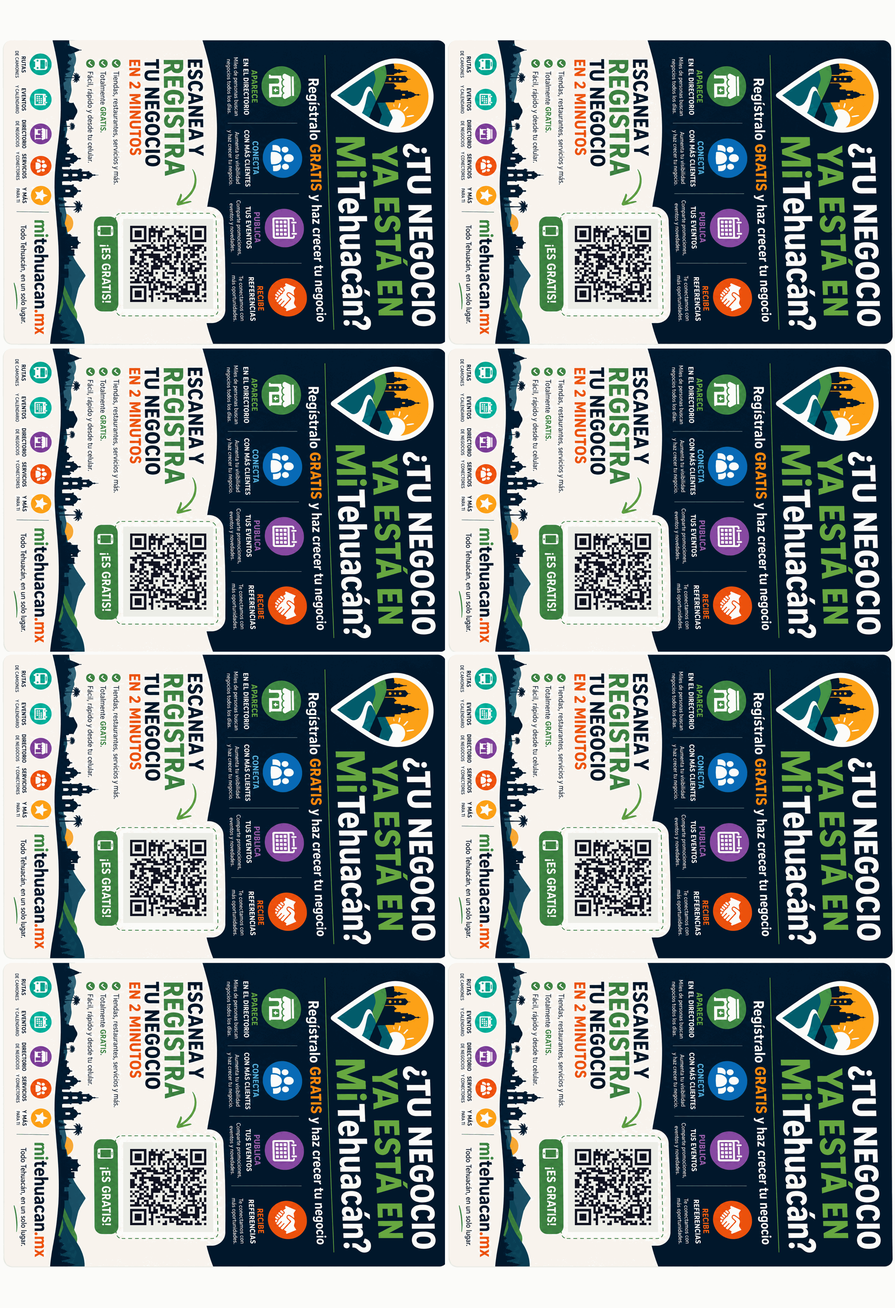
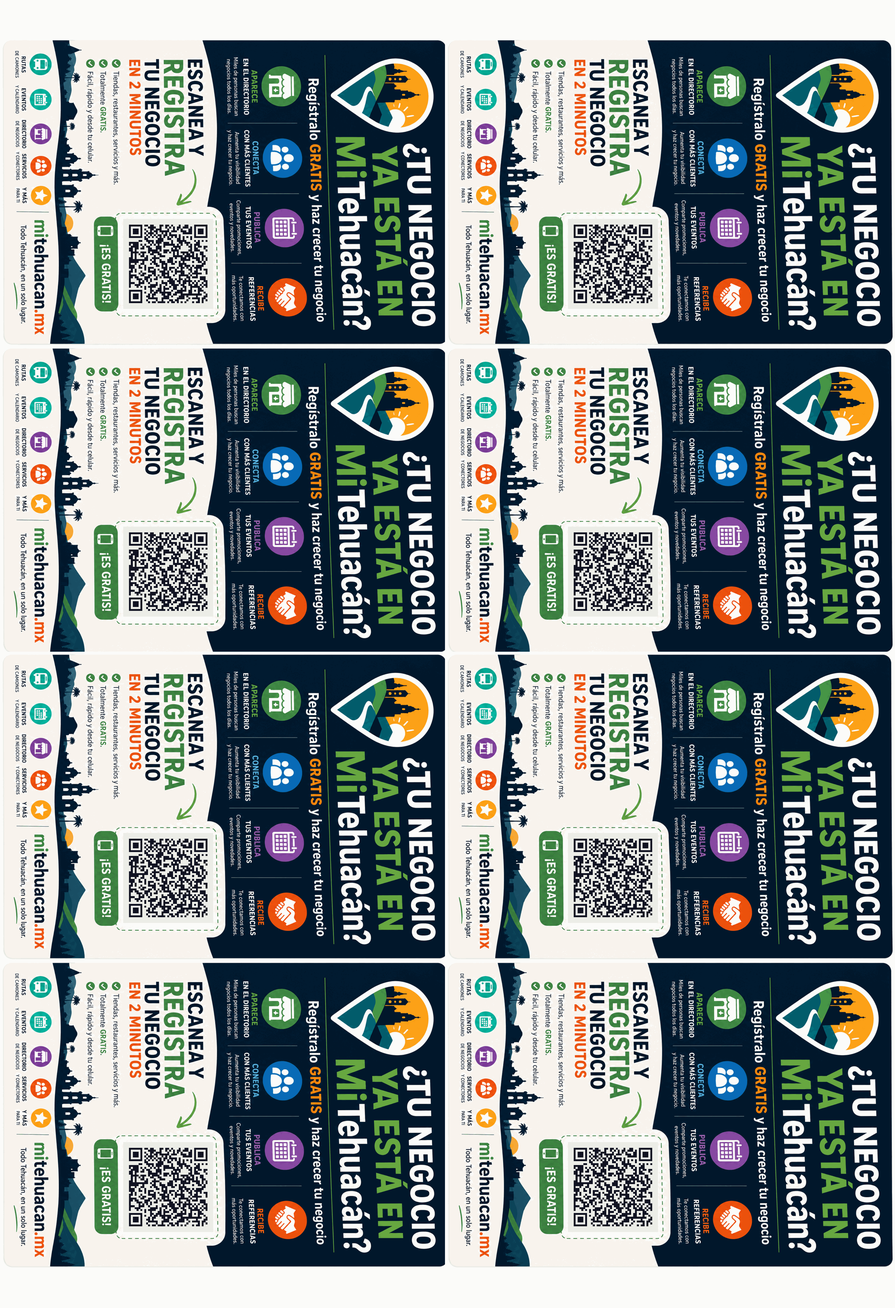
business sticker QR points direct to the live alta form
encode https://mitehuacan.mx/directorio/alta?b=sticker-negocio (Vercel-served,
already live) instead of a /qr redirect that needed a CF Pages function deploy.
revert the unused /qr NEGOCIO branch. same non-unique code across all 8; ?b=
tags the batch. decodes 8/8.

diff --git a/functions/qr/[id].js b/functions/qr/[id].js
@@ -13,11 +13,6 @@ export async function onRequestGet({ request, env, params }) {
   const proxied = fwd && !fwd.endsWith("pages.dev");
   const origin = proxied ? "https://" + fwd : new URL(request.url).origin;
   const base = proxied ? "/" : "/combis/";
-  // business self-registration stickers land on the alta form, not the map.
-  // one non-unique code (NEGOCIO) across the whole sheet; ?b= tags the batch.
-  if (id === "NEGOCIO") {
-    return Response.redirect(origin + base + "directorio/alta.html?b=" + encodeURIComponent(id), 302);
-  }
   let route = null;
   try {
     const row = await env.DB.prepare(
